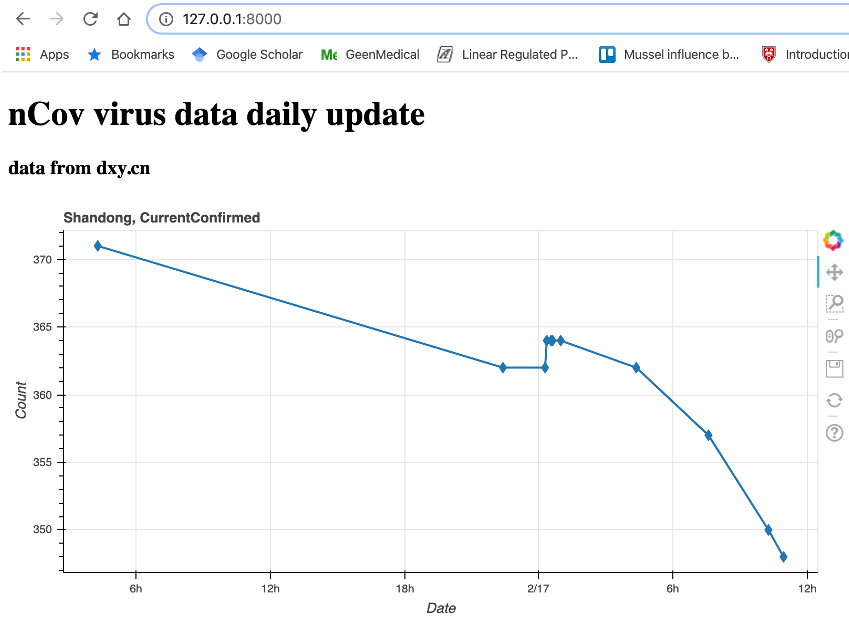
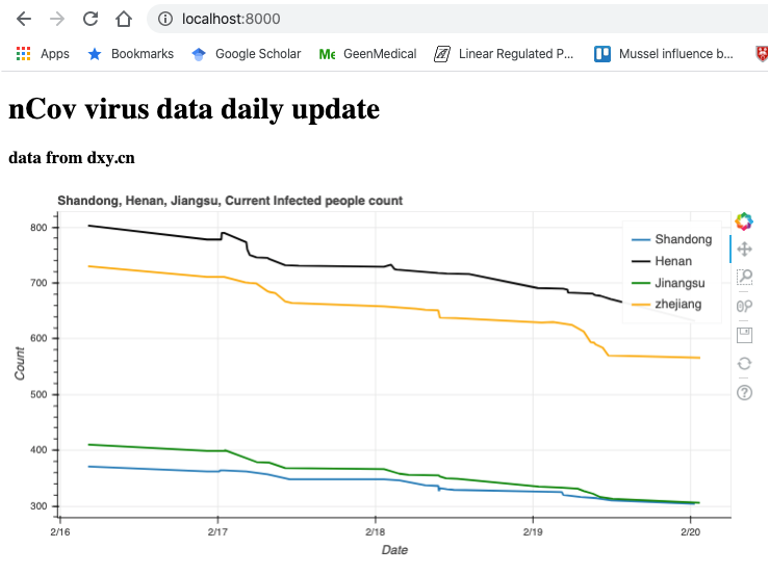
add another three provinces in the figure

diff --git a/ncov_html/mysite/views.py b/ncov_html/mysite/views.py
@@ -15,14 +15,46 @@ def homepage(request):
 	    province.append(list(p.values()))
 	x = [Time(p[-1]//1000,'posix').to('datetime')  for p in province]
 	y = [p[0] for p in province]
+    
+	province = []
+	for p in provinces.find({"provinceName":"河南省"},{'_id':0,'currentConfirmedCount': 1,
+	 'confirmedCount': 1, 'suspectedCount': 1, 'curedCount': 1, 'deadCount': 1,
+	 'updateTime':1}).sort('updateTime'):
+	    province.append(list(p.values()))
+	x1 = [Time(p[-1]//1000,'posix').to('datetime')  for p in province]
+	y1 = [p[0] for p in province]
+	province = []
+	for p in provinces.find({"provinceName":"江苏省"},{'_id':0,'currentConfirmedCount': 1,
+	 'confirmedCount': 1, 'suspectedCount': 1, 'curedCount': 1, 'deadCount': 1,
+	 'updateTime':1}).sort('updateTime'):
+	    province.append(list(p.values()))
+	x2 = [Time(p[-1]//1000,'posix').to('datetime')  for p in province]
+	y2 = [p[0] for p in province]
 
-	plot = figure(title = 'Shandong, CurrentConfirmed', x_axis_type = 'datetime',x_axis_label = 'Date',y_axis_label = 'Count',plot_width = 800,plot_height = 400)
+	province = []
+	for p in provinces.find({"provinceName":"浙江省"},{'_id':0,'currentConfirmedCount': 1,
+	 'confirmedCount': 1, 'suspectedCount': 1, 'curedCount': 1, 'deadCount': 1,
+	 'updateTime':1}).sort('updateTime'):
+	    province.append(list(p.values()))
+	x3 = [Time(p[-1]//1000,'posix').to('datetime')  for p in province]
+	y3 = [p[0] for p in province]
 
-	plot.line(x,y,line_width = 2)
-	plot.diamond(x,y,size = 10)
+	plot = figure(title = 'Shandong, Henan, Jiangsu, Current Infected people count', 
+		x_axis_type = 'datetime',x_axis_label = 'Date',y_axis_label = 'Count',
+		plot_width = 800,plot_height = 400)
+
+
+	plot.line(x,y,line_width = 2, legend_label = 'Shandong')
+	plot.line(x1,y1,line_width = 2,color = 'black',legend_label = 'Henan')
+	plot.line(x2,y2,line_width = 2,color = 'green',legend_label = 'Jinangsu')
+	plot.line(x3,y3,line_width = 2,color = 'orange',legend_label = 'zhejiang')
+
+	
 
 	script,div = components(plot)
 	#return render(request, 'pages/base.html', {})
 	return render(request,'pages/base.html',{'script':script,'div':div})
+
+	
 
 # Create your views here.
